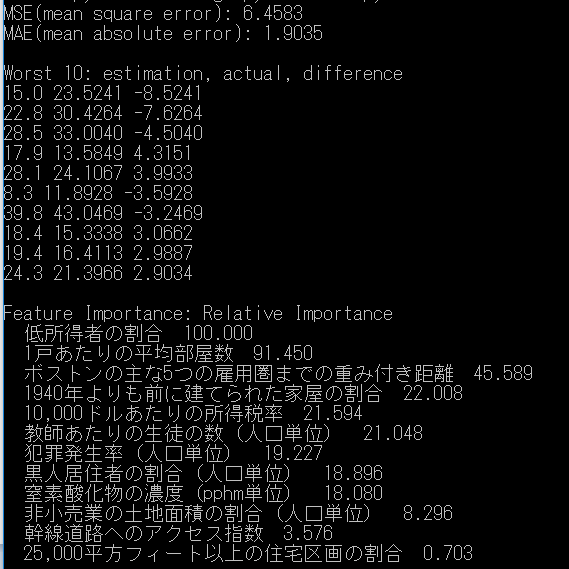
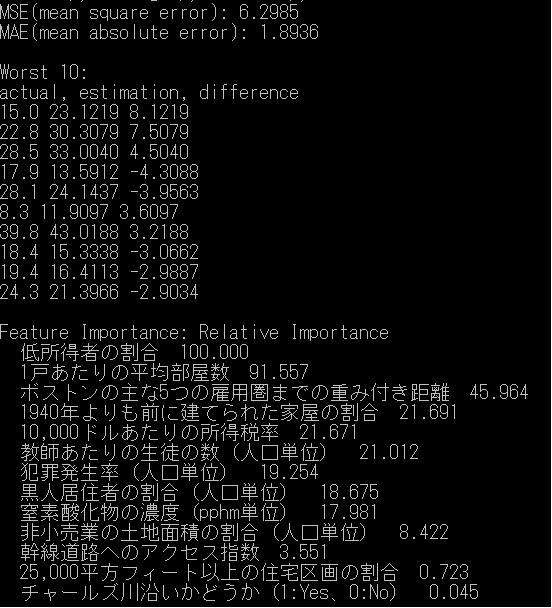
2nd commit

Changed region(s): [[0.0, 0.0, 1.0, 1.0]]

diff --git a/keras-bh.py b/keras-bh.py
@@ -1,7 +1,7 @@
 # -*- coding: UTF-8 -*-
 
 """
-NNによるボストンハウスのデータ(13種類の指標と住宅価格のデータ）の予測
+NN(ニューラルネットワーク)によるボストンハウスのデータ(13種類の指標と住宅価格のデータ）の予測
 NNのフレームワークとしてはkerasとtensorflowを使用。
 
 ----------------------------------------------------------------------------
@@ -91,9 +91,10 @@ if __name__ == '__main__':
     print("")
     # 予測誤差が大きいWorst 10を表示する
     index0= np.argsort( np.abs(test_targets - Y_predict))[::-1]
-    print ('Worst 10: actual, estimation, difference')
+    print ('Worst 10:')
+    print ('actual, estimation, difference')
     for i in index0[0:10]:
-        print(test_targets[i], "%.4f" % Y_predict[i], "%.4f" % (test_targets[i]- Y_predict[i]) )
+        print(test_targets[i], "%.4f" % Y_predict[i], "%.4f" % (Y_predict[i] - test_targets[i]) )
     
     # 学習時の損失と評価mae(mean absolute error)をepoch毎にプロットする
     plot_history(history)
